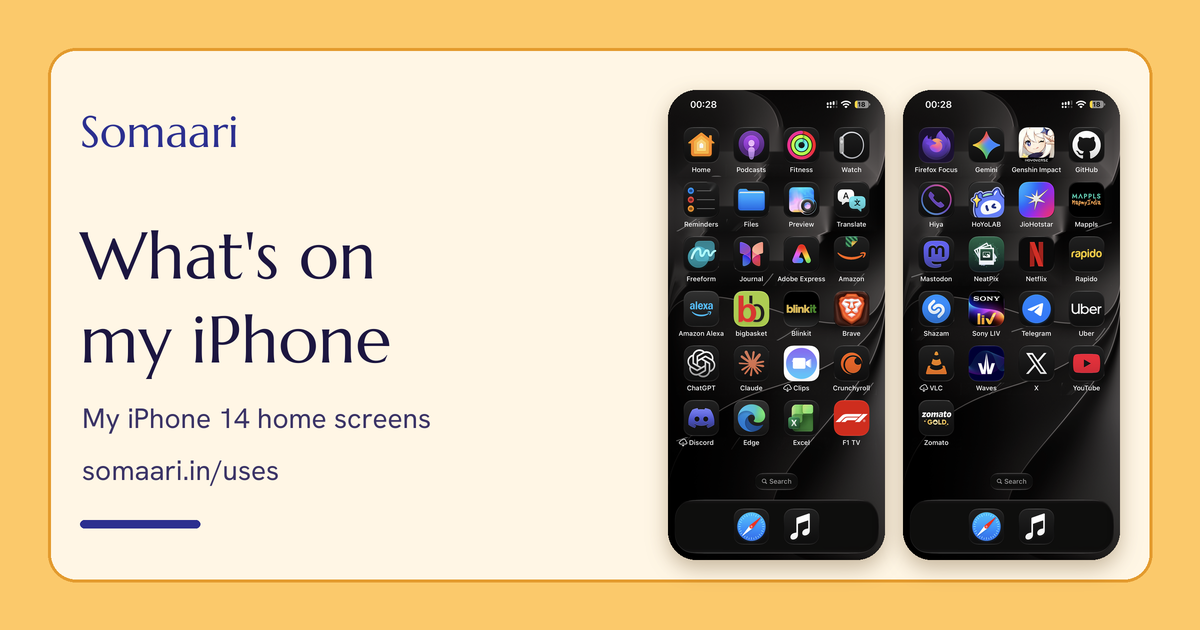
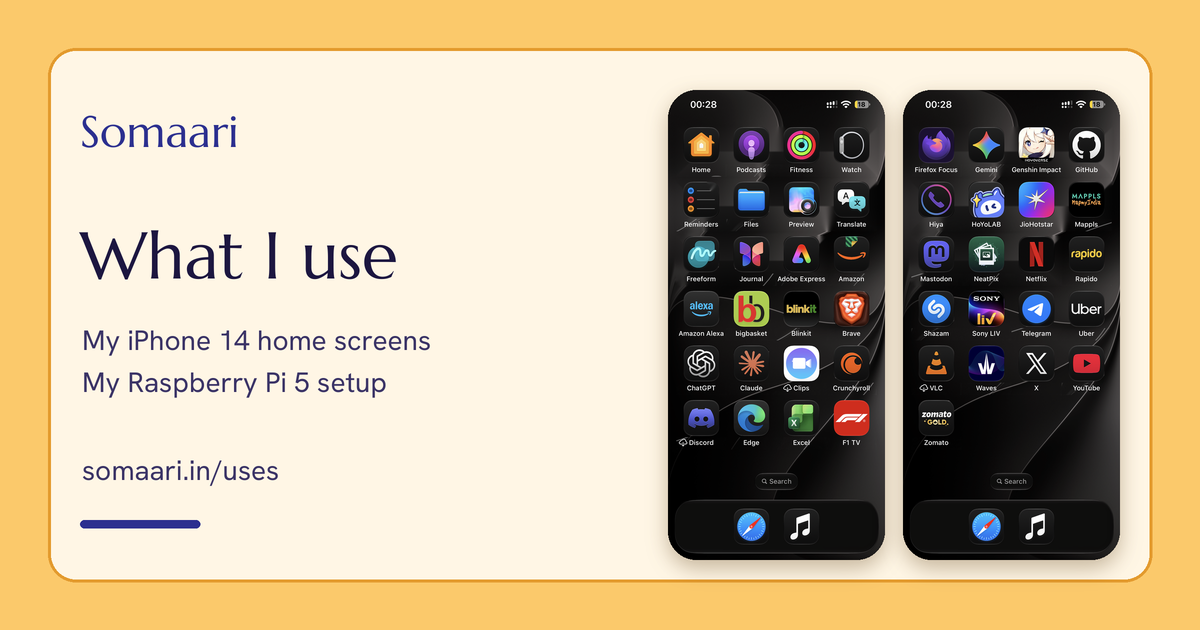
Uses: share image mentions the Raspberry Pi 5
Title is now "What I use" (the page heading) with two lines: my iPhone 14 home
screens and my Raspberry Pi 5 setup. og:image gets ?v=2 so X and other sites
fetch the new image; check-seo.mjs ignores the query string when checking that
the file exists.

Claude-Session: https://claude.ai/code/session_01QUbFiaL9sMyYVHz2fDDNgd

Changed region(s): [[0.0617, 0.4825, 0.37, 0.6937], [0.185, 0.3619, 0.3392, 0.4524]]

diff --git a/uses/index.html b/uses/index.html
@@ -17,10 +17,10 @@
   <meta property="og:description" content="The apps I use on my iPhone 14 and my Raspberry Pi 5 setup, grouped by category.">
   <meta property="og:url" content="https://somaari.in/uses/">
   <meta property="og:locale" content="en_IN">
-  <meta property="og:image" content="https://somaari.in/assets/uses/og.png">
+  <meta property="og:image" content="https://somaari.in/assets/uses/og.png?v=2">
   <meta property="og:image:width" content="1200">
   <meta property="og:image:height" content="630">
-  <meta property="og:image:alt" content="Somaari Uses: my iPhone 14 home screens, the apps I use on it and my Raspberry Pi 5 setup.">
+  <meta property="og:image:alt" content="What I use: my iPhone 14 home screens and my Raspberry Pi 5 setup.">
 
   <link rel="icon" href="/favicon.svg" type="image/svg+xml">
   <!-- Picks the theme before first paint (blocking on purpose). theme.js and themes.css (fonts and
